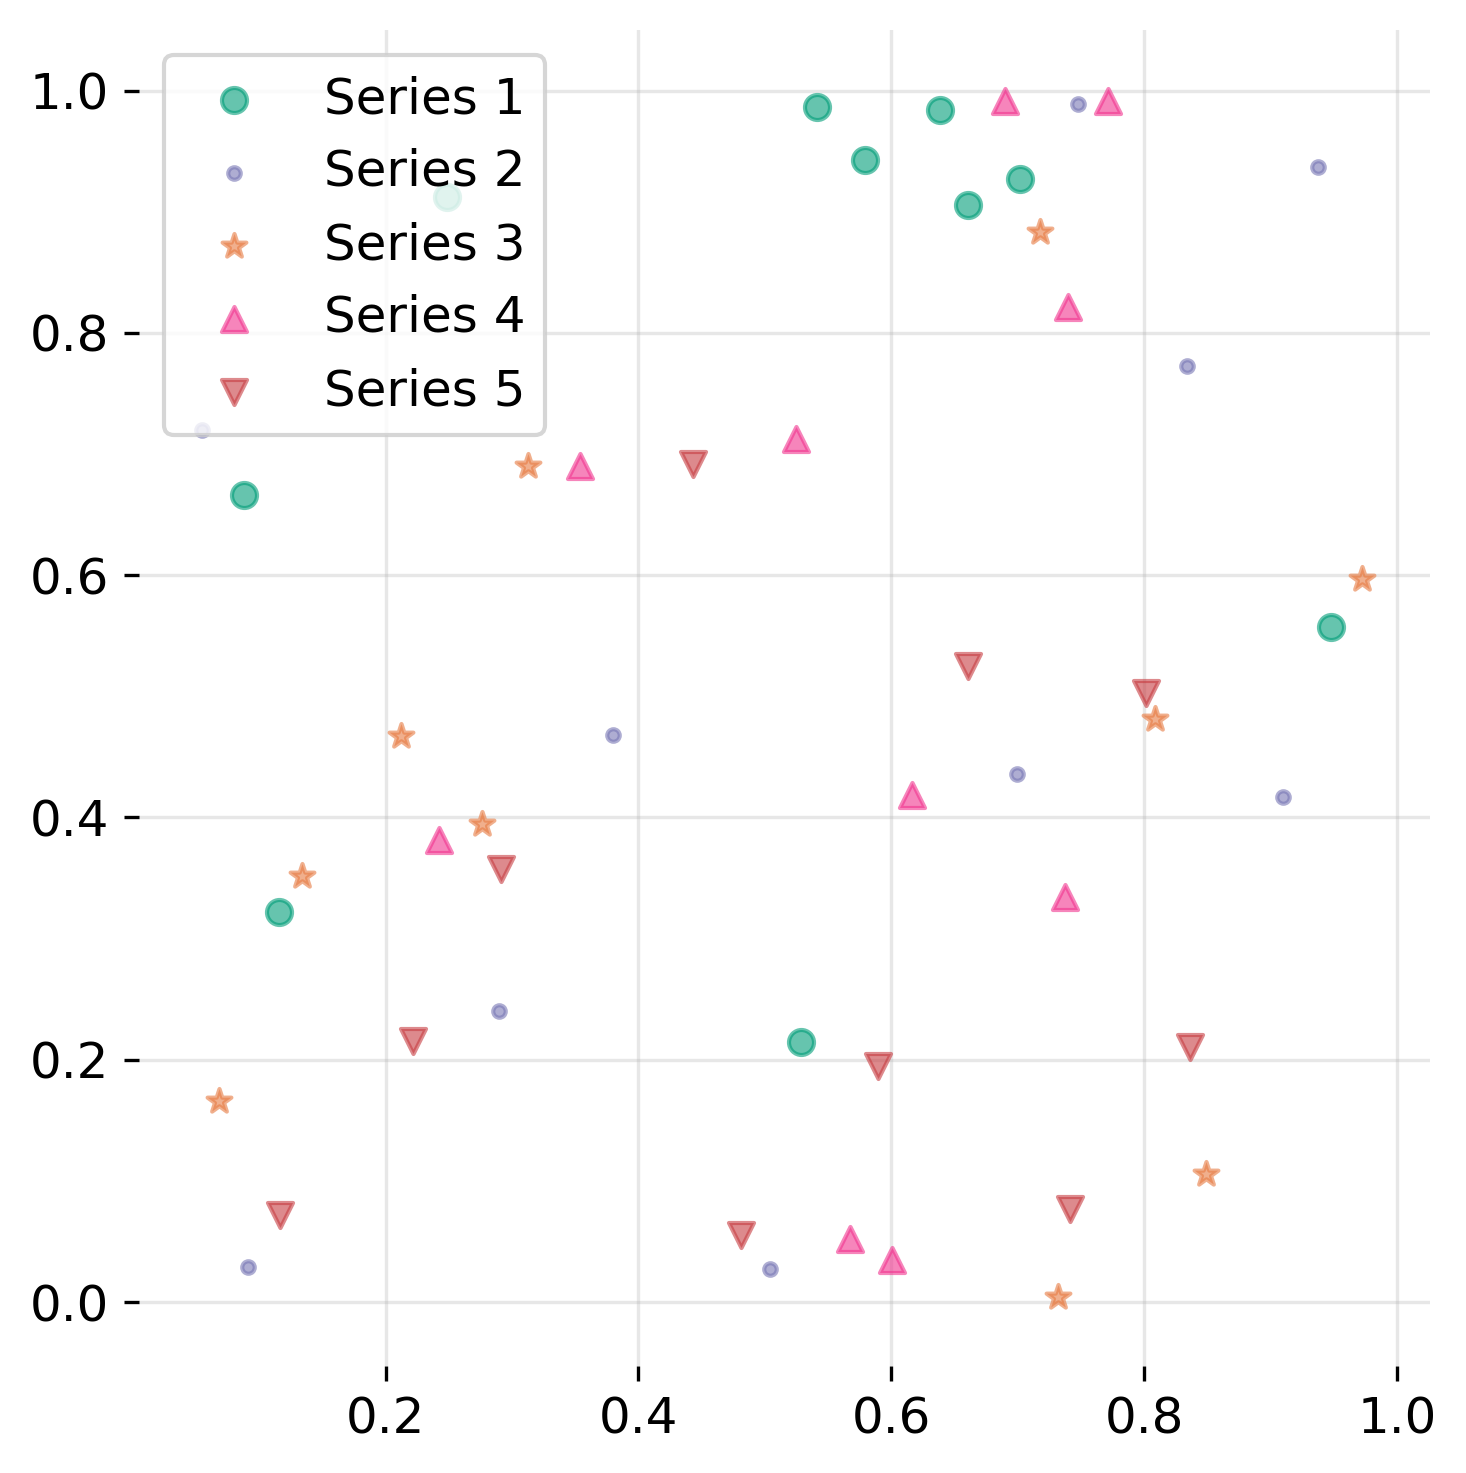
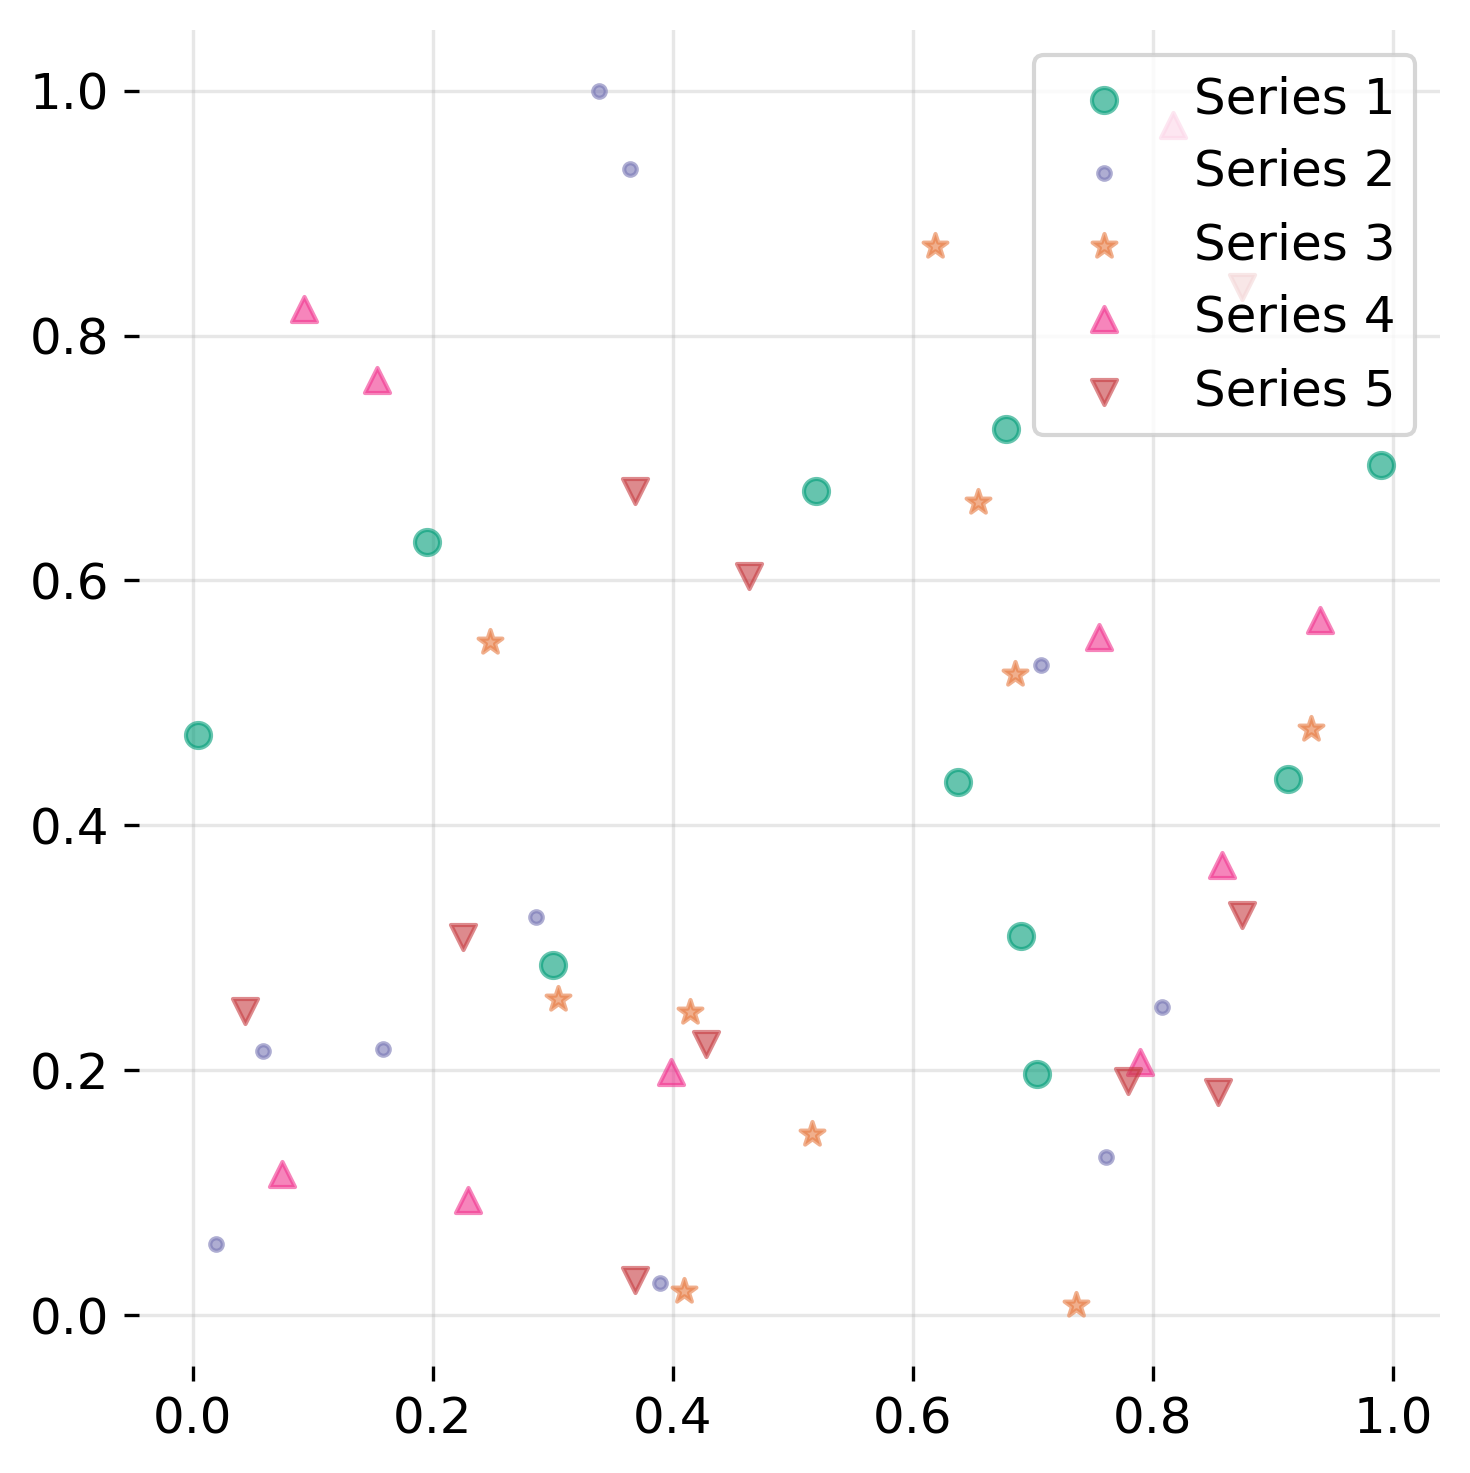
adding more plots capabilities

diff --git a/plot.py b/plot.py
@@ -147,7 +147,6 @@ def single_series_single_scatter_plot(xdata = [], ydata = [], comparison_line_co
             except:
                 yticks = [i+1 for i in range(len(yticklabels))]
             ax.set_yticks(yticks)
-            yticks = [i+1 for i in range(len(yticklabels))]
         ax.set_yticklabels(yticklabels, fontsize = yticklabels_fontsize)
     else:
         plt.yticks(fontsize = yticklabels_fontsize)
@@ -228,7 +227,6 @@ def multiple_series_single_scatter_plot(xdata = [], ydata = [], comparison_line_
             except:
                 yticks = [i+1 for i in range(len(yticklabels))]
             ax.set_yticks(yticks)
-            yticks = [i+1 for i in range(len(yticklabels))]
         ax.set_yticklabels(yticklabels, fontsize = yticklabels_fontsize)
     else:
         plt.yticks(fontsize = yticklabels_fontsize)
@@ -244,6 +242,87 @@ def multiple_series_single_scatter_plot(xdata = [], ydata = [], comparison_line_
     plt.tight_layout()
     if legend:
         plt.legend(fontsize = legend_label_fontsize)
+    if savename != "":
+        plt.savefig(savename, dpi = dpi, bbox_inches = 'tight')
+    else:
+        plt.show()
+
+def single_series_multiple_scatter_plot_single_row(xdata = [], ydata = [], comparison_line_coords = [[0,1],[0,1]],
+                        show_comparison_line = False, figsize = (6,5), 
+                        xlabel = "", ylabel = "", axis_label_fontsize = 14, titles = [],
+                        markers = [],
+                        title_fontsize = 16, xticks = [], xticklabels = [], xticklabels_fontsize = 12, 
+                        yticks = [], yticklabels = [], yticklabels_fontsize = 12, colors = [], plot_alpha = 0.6,
+                        colors_dict = colors, savename = "", dpi = 300):
+    ## Make figure
+    fig, axarr = plt.subplots(nrows = 1, ncols = len(xdata), figsize = figsize)
+    plt.rcParams["font.family"] = "sans-serif"
+    plt.rcParams['axes.axisbelow'] = True
+    
+    if len(axarr) != len(ydata):
+        raise ValueError("Number of y-axis series does not match number of x-axis series.")
+    if len(titles) != len(axarr):
+        titles = [f"Plot {i+1}" for i in range(len(axarr))]
+    if len(markers) != len(axarr):
+        markers = ["o" for i in range(len(axarr))]
+    if len(colors) != len(axarr):
+        colors = ["k" for i in range(len(axarr))]
+
+    for ax, title, X, Y, C, M in zip(axarr, titles, xdata, ydata, colors, markers):
+        ax.spines["top"].set_visible(False)
+        ax.spines["right"].set_visible(False)
+        ax.spines["bottom"].set_visible(False)
+        ax.spines["left"].set_visible(False)
+        ax.grid(True, alpha = 0.3)
+        ## Make scatter plot
+        if show_comparison_line:
+            ax.plot(comparison_line_coords[0], comparison_line_coords[1], c = "k", ls = "-",  lw = 1)
+        ## Check to make sure we have enough labels and colors and markers
+        ax.scatter(X, Y, alpha = plot_alpha, c = colors_dict[C], marker = M)
+    
+        ## Set xticks
+        if xticks != []:
+            ax.set_xticks(xticks)
+        if xticklabels != []:
+            ## In the event that we have input tick labels but no ticks set,
+            ## matplotlib gets weird about it, so make sure something gets set
+            ## May require additional user input
+            if xticks == []:
+                try:
+                    xticks = [float(x) for x in xticklabels]
+                except:
+                    xticks = [i+1 for i in range(len(xticklabels))]
+                ax.set_xticks(xticks)
+            ax.set_xticklabels(xticklabels, fontsize = xticklabels_fontsize)
+        else:
+            plt.xticks(fontsize = xticklabels_fontsize)
+        
+        ## Set yticks
+        if yticks != []:
+            ax.set_yticks(yticks)
+        if yticklabels != []:
+            ## In the event that we have input tick labels but no ticks set,
+            ## matplotlib gets weird about it, so make sure something gets set
+            ## May require additional user input
+            if yticks == []:
+                try:
+                    yticks = [float(y) for y in yticklabels]
+                except:
+                    yticks = [i+1 for i in range(len(yticklabels))]
+                ax.set_yticks(yticks)
+            ax.set_yticklabels(yticklabels, fontsize = yticklabels_fontsize)
+        else:
+            plt.yticks(fontsize = yticklabels_fontsize)
+
+        ## Label axes
+        ax.set_xlabel(xlabel, fontsize = axis_label_fontsize)
+        ## Set title
+        ax.set_title(title, fontsize = title_fontsize)
+
+    axarr[0].set_ylabel(ylabel, fontsize = axis_label_fontsize)
+
+    ## Saving
+    plt.tight_layout()
     if savename != "":
         plt.savefig(savename, dpi = dpi, bbox_inches = 'tight')
     else:

diff --git a/testing.py b/testing.py
@@ -1,9 +1,7 @@
 from plot import *
 import numpy as np
 
-print_available_colors()
-
-single_horizontal_boxplot(data = [np.random.rand(20) for _ in range(5)], 
+single_horizontal_boxplot(data = [np.abs(np.random.rand(20)) for _ in range(5)], 
                           xlabel = "X", 
                           box_colors = ["orange", "violet", "scatter green", "purple", "red"],
                           ylabel = "Y",
@@ -13,7 +11,7 @@ single_horizontal_boxplot(data = [np.random.rand(20) for _ in range(5)],
                           xticklabels=["0.0", "0.5", "1.0"],
                           savename="trial_boxplot.png")
 
-single_series_single_scatter_plot(xdata = np.random.rand(10), ydata = np.random.rand(10),
+single_series_single_scatter_plot(xdata = np.abs(np.random.rand(10)), ydata = np.abs(np.random.rand(10)),
                                   show_comparison_line = True, 
                                 #   xlabel = "X",
                                   color = "scatter pink",
@@ -25,9 +23,17 @@ single_series_single_scatter_plot(xdata = np.random.rand(10), ydata = np.random.
                                 #   title="Single Series Scatter",
                                   savename="trial_single_series_scatter.png")
 
-multiple_series_single_scatter_plot(xdata = [np.random.rand(10) for _ in range(5)], ydata = [np.random.rand(10) for _ in range(5)],
+multiple_series_single_scatter_plot(xdata = [np.abs(np.random.rand(10)) for _ in range(5)], ydata = [np.abs(np.random.rand(10)) for _ in range(5)],
                                   colors = ["scatter green", "scatter blue", "scatter orange", "scatter pink", "red"],
                                   markers = ["o", ".", "*", "^", "v"],
                                   legend = True,
                                   figsize=(5,5),
                                   savename="trial_multiple_series_scatter.png")
+
+single_series_multiple_scatter_plot_single_row(xdata = [np.abs(np.random.rand(10)) for _ in range(5)], ydata = [np.abs(np.random.rand(10)) for _ in range(5)],
+                                  colors = ["scatter green", "scatter blue", "scatter orange", "scatter pink", "red"],
+                                  markers = ["o", ".", "*", "^", "v"],
+                                  figsize=(20,5),
+                                  xticklabels=["0.0", "0.5", "1.0"],
+                                  yticklabels=["0.0", "0.5", "1.0"],
+                                  savename="trial_single_series_scatter_multiple_scatter.png")                                  
